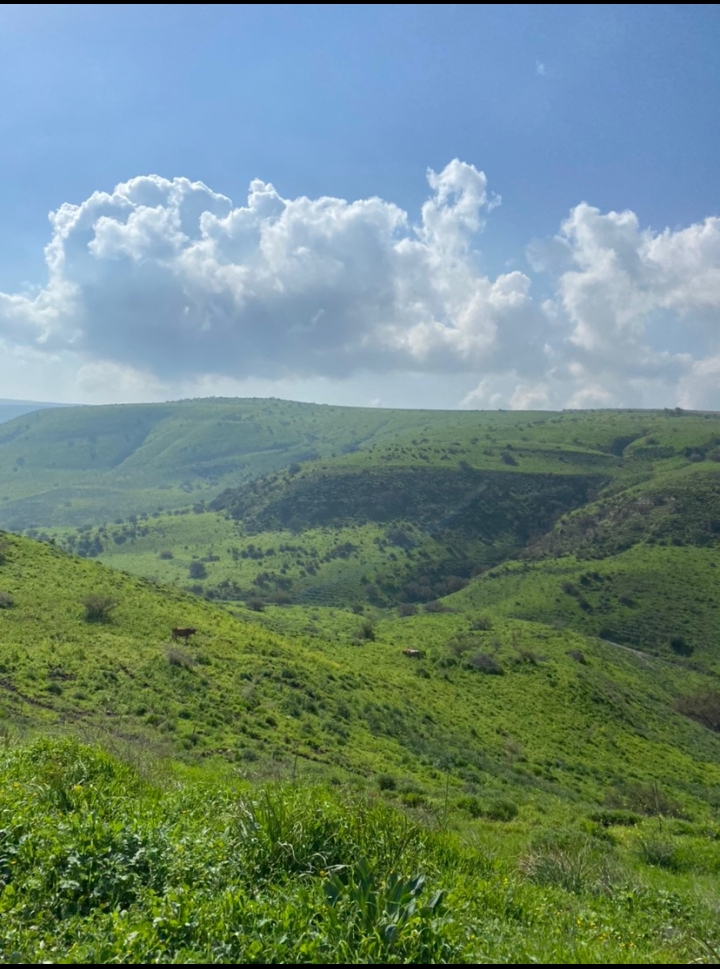
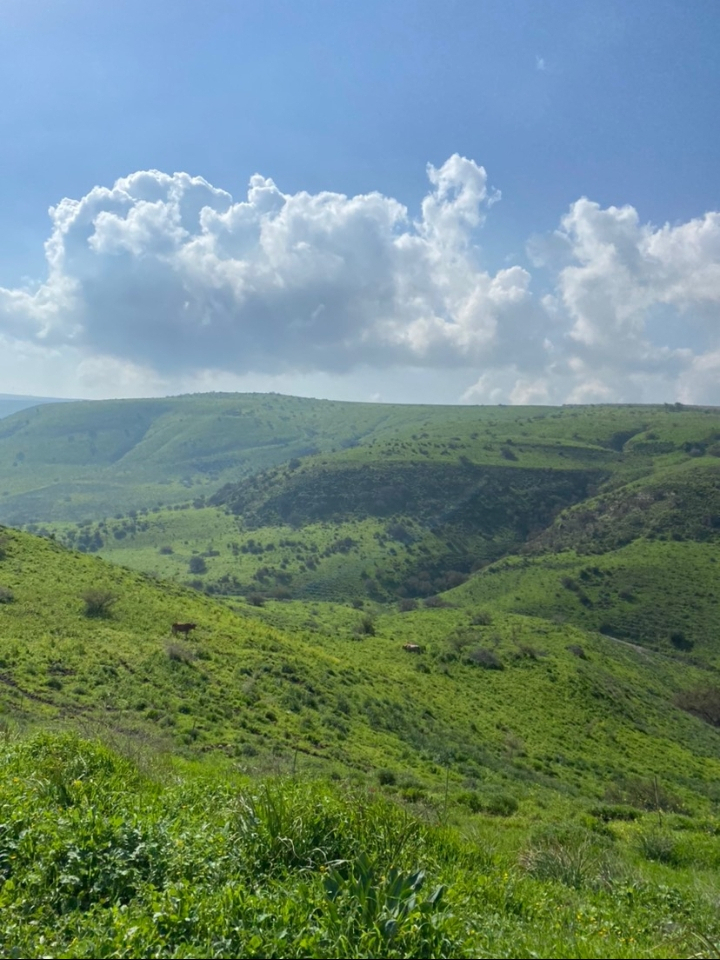
update

diff --git a/portifolio2/css/style.scss b/portifolio2/css/style.scss
@@ -94,10 +94,12 @@ header {
 /*Links concluidos agora é a parte do conteúdo príncipal*/
 
 #imagem1 {
-    background-image: url(../imagens/paisagem1.jpg);
-    height: 1200px;
+    background-image: url(../imagens/paisagem2.jpg);
+    height: 750px;
+    padding-top: 20px;
     background-repeat: no-repeat;
     background-size: cover;
+    background-position: left center;
     display: flex;
     justify-content: center;
     
@@ -106,7 +108,6 @@ header {
 #logo {
    width: 400px;
    display: block;
-   background-color: green;
    position: relative;
 }
 
@@ -118,7 +119,7 @@ header {
     left: 50%;
     transform: translate(-49%, -50%);
     position: absolute;
-    transition: opacity 0.5s;
+    transition: opacity 0.8s;
 }
 
 .apresentationP {
@@ -143,7 +144,7 @@ header {
 
 #lambda {
     width: 48px;
-    top: 15.0%;
+    top: 18.0%;
     left: 46.5%;
     // top: 8.5%;
     // left: 56%;
@@ -154,7 +155,7 @@ header {
 
 #epsilon {
     width: 47.5px;
-    top: 15.0%;
+    top: 18.0%;
     left: 54%;
     // top: 8.5%;
     // left: 56%;
@@ -165,7 +166,7 @@ header {
 
 #phi {
     width: 47px;
-    top: 15.5%;
+    top: 18.5%;
     left: 63%;
     // top: 8.5%;
     // left: 56%;
@@ -218,17 +219,17 @@ header {
 @keyframes animationAlphaF {
     50% {
         width: 35.5px;//animation 1
-        top: 15.25%;//animation 1
+        top: 18.25%;//animation 1
         left: 65%;//animation 1
     }
     70% {
         width: 35.5px;//animation F
-        top: 15.25%;//animation F
+        top: 18.25%;//animation F
         left: 38%;//animation F
     }
     100% {
         width: 35.5px;//animation F
-        top: 15.25%;//animation F
+        top: 18.25%;//animation F
         left: 38%;//animation F
     }
 }
@@ -258,13 +259,13 @@ header {
         opacity: 28%;
     }
     98% {
-        top: 15.25%;//animation 1
+        top: 18.25%;//animation 1
         left: 38%;//animation 1
         opacity: 15%;
     }
 
     100% {
-        top: 15.25%;//animation 1
+        top: 18.25%;//animation 1
         left: 36%;//animation 1
         opacity: 0%;
     }
@@ -273,7 +274,7 @@ header {
 @keyframes returnAlpha {
     from {
         width: 35.5px;//animation F
-        top: 15.25%;//animation F
+        top: 18.25%;//animation F
         left: 38%;//animation F
     }
     

diff --git a/portifolio2/css/style.css b/portifolio2/css/style.css
@@ -89,10 +89,12 @@ header {
 
 /*Links concluidos agora é a parte do conteúdo príncipal*/
 #imagem1 {
-  background-image: url(../imagens/paisagem1.jpg);
-  height: 1200px;
+  background-image: url(../imagens/paisagem2.jpg);
+  height: 750px;
+  padding-top: 20px;
   background-repeat: no-repeat;
   background-size: cover;
+  background-position: left center;
   display: flex;
   justify-content: center;
 }
@@ -100,7 +102,6 @@ header {
 #logo {
   width: 400px;
   display: block;
-  background-color: green;
   position: relative;
 }
 
@@ -111,7 +112,7 @@ header {
   left: 50%;
   transform: translate(-49%, -50%);
   position: absolute;
-  transition: opacity 0.5s;
+  transition: opacity 0.8s;
 }
 
 .apresentationP {
@@ -128,7 +129,7 @@ header {
 
 #lambda {
   width: 48px;
-  top: 15%;
+  top: 18%;
   left: 46.5%;
   transform: translate(-50%, -50%);
   position: absolute;
@@ -137,7 +138,7 @@ header {
 
 #epsilon {
   width: 47.5px;
-  top: 15%;
+  top: 18%;
   left: 54%;
   transform: translate(-50%, -50%);
   position: absolute;
@@ -146,7 +147,7 @@ header {
 
 #phi {
   width: 47px;
-  top: 15.5%;
+  top: 18.5%;
   left: 63%;
   transform: translate(-50%, -50%);
   position: absolute;
@@ -193,17 +194,17 @@ header {
 @keyframes animationAlphaF {
   50% {
     width: 35.5px;
-    top: 15.25%;
+    top: 18.25%;
     left: 65%;
   }
   70% {
     width: 35.5px;
-    top: 15.25%;
+    top: 18.25%;
     left: 38%;
   }
   100% {
     width: 35.5px;
-    top: 15.25%;
+    top: 18.25%;
     left: 38%;
   }
 }
@@ -226,12 +227,12 @@ header {
     opacity: 28%;
   }
   98% {
-    top: 15.25%;
+    top: 18.25%;
     left: 38%;
     opacity: 15%;
   }
   100% {
-    top: 15.25%;
+    top: 18.25%;
     left: 36%;
     opacity: 0%;
   }
@@ -239,7 +240,7 @@ header {
 @keyframes returnAlpha {
   from {
     width: 35.5px;
-    top: 15.25%;
+    top: 18.25%;
     left: 38%;
   }
   to {
